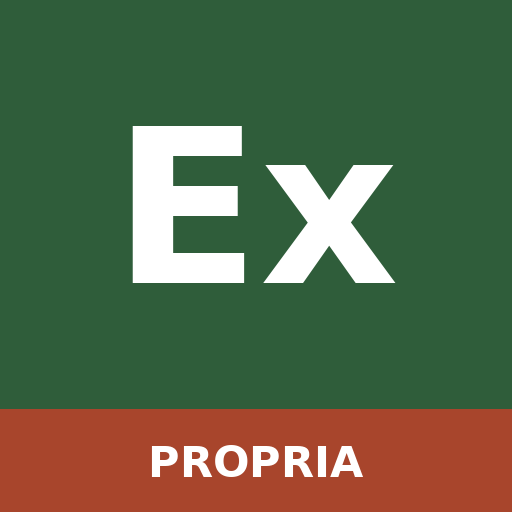
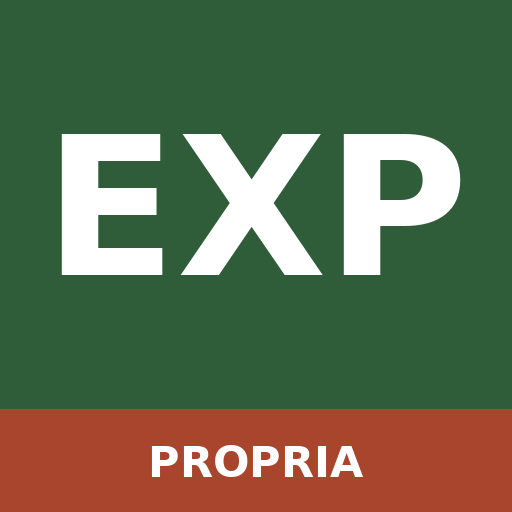
ExPropria 0.13.11: ícone EXP; cálculo do V_Un em quadro no Word; consociação eucaliptal + culturas; colunas ajustadas na janela de cálculo
Claude-Session: https://claude.ai/code/session_01WmKbAz9Cc2mBjezjkKT2Gw

Changed region(s): [[0.0938, 0.2188, 0.9062, 0.5625]]

diff --git a/expropria/index.html b/expropria/index.html
@@ -1,5 +1,11 @@
 <!doctype html>
 <!--
+ExPropria v0.13.11 — resumo
+- Ícone com as letras EXP.
+- 🧮 Calcular: na tabela de culturas (e no plano de cortes do pinhal), a coluna da designação tem a largura da mais longa + 1 carácter; as restantes colunas foram encurtadas.
+- 🧮 Novo método «Consociação»: eucaliptal + rotação de culturas entre as árvores (soma dos dois valores; a quota de cada cultura reflete a parte cultivável).
+- No Word, o cálculo do V_Un sai em quadro (sem limites de células, só a linha inferior do cabeçalho), com os parâmetros antes e os resultados depois – eucaliptal, pinhal, rotação de culturas e ocupação temporária.
+
 ExPropria v0.13.10 — resumo
 - Verificação: contas do próprio Word (área × V_Un = valor; «Total» = soma das parcelas; montante final = total) e áreas comparadas com a área a expropriar declarada no relatório quando o formulário não a tem.
 - 🧮 Rotação de culturas: coluna «Quota» (fração do ano / da área de cada cultura, RF = quota × RB × (1 − DE)), como na folha de cálculo do relatório da parcela 722; valores por defeito da versão final.
@@ -587,7 +593,7 @@ table.tb td input,table.tb td textarea{padding:5px 6px;min-height:0}
 .zerobox{margin-top:8px;padding:10px 12px;border:2px solid #c62828;border-radius:10px;background:#fdecea;color:#b71c1c;font-weight:700}
 .calc.zero{border-color:#c62828;color:#b71c1c;background:#fdecea}.imgf img{max-width:100%;max-height:220px;border:1px solid var(--line,#dfe5ec);border-radius:8px;display:block;margin:4px 0}.imgbtns{display:flex;gap:8px;flex-wrap:wrap;margin:6px 0}.fluxo .seg{display:flex;gap:0;margin:6px 0 12px;border:1px solid var(--line,#d5ddcf);border-radius:12px;overflow:hidden}.fluxo .seg button{flex:1;min-height:48px;border:0;border-radius:0;background:#fff;color:#2f5d3a;font-weight:600}.fluxo .seg button.on{background:#2f5d3a;color:#fff}.fluxo .fx-ol{padding-left:20px;margin:6px 0}.fluxo .fx-ol li{margin:0 0 14px}
 .tlr:last-child{border-bottom:0}.tlr .chk{margin:0}.tlr input:not([type=checkbox]){margin:0;padding:6px 8px}.tlr input:disabled{opacity:.35}
-.tlr select{grid-column:1/-1;margin:0 0 4px 26px;padding:5px 8px;font-size:13px}.tlr .del{padding:2px 7px}.tlr.vun{grid-template-columns:1fr 110px}.cmrow{grid-column:1/-1;display:flex;align-items:center;gap:8px;flex-wrap:wrap;margin:2px 0 4px}.cmnote{font-size:12px;color:#2f5d3a}.cmnote.dif{color:#a15c00}.arvx{grid-column:1/-1;display:grid;grid-template-columns:1fr 1fr;gap:8px}.cmgrid{display:grid;grid-template-columns:1fr 1fr;gap:8px 10px}@media(max-width:520px){.cmgrid{grid-template-columns:1fr}}.cmf{display:flex;flex-direction:column;gap:3px;font-size:13px}.cmf input,.cmf select{width:100%}.cmt input{width:100%;min-width:60px}.cmres{margin-top:12px;padding:10px;border-radius:10px;background:#f3f6f4;font-size:13px;line-height:1.45}.cmv{margin-top:6px;font-size:15px}
+.tlr select{grid-column:1/-1;margin:0 0 4px 26px;padding:5px 8px;font-size:13px}.tlr .del{padding:2px 7px}.tlr.vun{grid-template-columns:1fr 110px}.cmrow{grid-column:1/-1;display:flex;align-items:center;gap:8px;flex-wrap:wrap;margin:2px 0 4px}.cmnote{font-size:12px;color:#2f5d3a}.cmnote.dif{color:#a15c00}.arvx{grid-column:1/-1;display:grid;grid-template-columns:1fr 1fr;gap:8px}.cmgrid{display:grid;grid-template-columns:1fr 1fr;gap:8px 10px}@media(max-width:520px){.cmgrid{grid-template-columns:1fr}}.cmf{display:flex;flex-direction:column;gap:3px;font-size:13px}.cmf input,.cmf select{width:100%}.cmtw{overflow-x:auto;max-width:100%}.cmt{width:auto;border-collapse:collapse}.cmt th{font-size:11.5px;padding:2px 3px;white-space:nowrap}.cmt td{padding:2px 3px}.cmt input{min-width:0;box-sizing:content-box;padding:5px 3px;font-size:14px}.cmt .del{padding:2px 6px;min-height:0}.cmres{margin-top:12px;padding:10px;border-radius:10px;background:#f3f6f4;font-size:13px;line-height:1.45}.cmv{margin-top:6px;font-size:15px}
 .tlr .q{font-size:12px;color:var(--muted,#667)}
 .mgrid{display:grid;grid-template-columns:repeat(auto-fill,minmax(210px,1fr));column-gap:12px}
 .blk{margin:18px 0 6px;padding:8px 12px;border-radius:9px;background:var(--pri);color:#fff;font-weight:700;letter-spacing:.2px}
@@ -732,7 +738,7 @@ https://github.com/nodeca/pako/blob/main/LICENSE
 
 <script>
 'use strict';
-const VERSION='0.13.10';const VERSION_DATA='2026-11-18';/* data da release: atualizar sempre com VERSION */
+const VERSION='0.13.11';const VERSION_DATA='2026-11-18';/* data da release: atualizar sempre com VERSION */
 function growFit(t){if(!t||!t.classList?.contains('grow')||!t.offsetParent)return;t.style.height='auto';t.style.height=(t.scrollHeight+2)+'px'}
 function growAll(root){(root||document).querySelectorAll('textarea.grow').forEach(growFit)}
 document.addEventListener('input',e=>growFit(e.target),true);
@@ -824,7 +830,7 @@ function fill73(doc,v,c){const body=h=>{const ps=[];let e=h.nextSibling;while(e)
  put('Situações com reflexo na parte sobrante',T('depTipos').filter(r=>num(r.qtd)>0||String(r.obs||'').trim()).map(r=>`- ${r.tipo.trim()}${r.obs?` – ${r.obs}`:''}`));
   put('Arrendamentos e outros direitos',T('arrTipos').filter(r=>num(r.qtd)>0||String(r.obs||'').trim()).map(r=>`- ${r.tipo.trim()}${r.obs?` – ${r.obs}`:''}`));
   put('Atividades económicas exercidas',T('intTipos').filter(r=>num(r.qtd)>0||String(r.obs||'').trim()).map(r=>`- ${r.tipo.trim()}${r.obs?` – ${r.obs}`:''}`));
- put('Interrupção da atividade',[...T('intTipos').filter(r=>num(r.qtd)>0).map(r=>`- ${r.tipo.trim()}${r.obs?` – ${r.obs}`:''}${ab('intTipos',r)}`),...ocTempRows(v).flatMap(([r])=>[`- Ocupação temporária – ${String(r.tipo).trim()}${String(r.obs||'').trim()?` (${String(r.obs).trim()})`:''}: ${fmt(num(r.area))} m² × ${fmt(num(r.vun),4)} €/m²/ano × ${fmt(num(r.anos),num(r.anos)%1?1:0)} ${num(r.anos)===1?'ano':'anos'} = ${fmt(num(r.area)*num(r.anos)*num(r.vun))} €${String(r.fund||'').trim()?` (${String(r.fund).trim().replace(/[.\s]+$/,'')})`:''}.`,...(calcUsado('ocTemp',r)?r.calcTxt.map(x=>'   '+x):[])])])}
+ put('Interrupção da atividade',[...T('intTipos').filter(r=>num(r.qtd)>0).map(r=>`- ${r.tipo.trim()}${r.obs?` – ${r.obs}`:''}${ab('intTipos',r)}`),...ocTempRows(v).flatMap(([r])=>[`- Ocupação temporária – ${String(r.tipo).trim()}${String(r.obs||'').trim()?` (${String(r.obs).trim()})`:''}: ${fmt(num(r.area))} m² × ${fmt(num(r.vun),4)} €/m²/ano × ${fmt(num(r.anos),num(r.anos)%1?1:0)} ${num(r.anos)===1?'ano':'anos'} = ${fmt(num(r.area)*num(r.anos)*num(r.vun))} €${String(r.fund||'').trim()?` (${String(r.fund).trim().replace(/[.\s]+$/,'')})`:''}.`,...(calcUsado('ocTemp',r)?calcTok(r):[])])]);calcExpand(doc)}
 /* epígrafe do acórdão: Processo · Finalidade · Parcela · Expropriante · Expropriado(s) */
 function acEpigrafe(doc,P,pars){const h=findPara(doc,t=>/^processo:/.test(norm(t)));if(!h)return;
  setParaText(h,`Processo: ${P.proc||'[…]'}`);const ps=nextParas(doc,h,8);const put=(re,val)=>{const q=ps.find(q=>re.test(norm(txt(q))));if(q)setParaText(q,val)};
@@ -1308,7 +1314,7 @@ async function buildWordARB(ask=true,pp=null,opt={}){try{await avaFontesCalibri(
     else{if(pP)setParaText(pP,'- Nada a considerar');if(t)remove(t)}}}
   {/* 8.3: fundamentação do V_Un de cada finalidade do solo para outros fins */const FL=(Array.isArray(v.sofTipos)?v.sofTipos:[]).filter(r=>elegivel(v,'sofTipos',r,'area')&&String(r.fund||'').trim());
    if(FL.length){const h=findHeading(doc,'Solo para outros fins - parametriza')||findHeading(doc,'Solo para outros fins');if(h){let q=null,e=h.nextSibling;while(e){if(e.nodeType===1){if(e.localName==='p'){const st=e.getElementsByTagNameNS(WNS,'pStyle')[0];if(st&&/Cabealho/.test(st.getAttributeNS(WNS,'val'))&&txt(e).trim())break;q=e;if(txt(e).trim())break}}e=e.nextSibling}
-    if(q){const L=FL.flatMap(r=>[`- ${String(r.tipo).trim()}: V_Un ${fmt(num(r.vun))} €/m² – ${String(r.fund).trim().replace(/[.\s]+$/,'')}.`,...(calcUsado('sofTipos',r)?r.calcTxt.map(x=>'   '+x):[])]);if(/^-?\s*nada a considerar/i.test(txt(q).trim())||!txt(q).trim())setParaText(q,L.join('\n'));else{const n=q.cloneNode(true);q.parentNode.insertBefore(n,q.nextSibling);setParaText(n,L.join('\n'))}}}}}
+    if(q){const L=FL.flatMap(r=>[`- ${String(r.tipo).trim()}: V_Un ${fmt(num(r.vun))} €/m² – ${String(r.fund).trim().replace(/[.\s]+$/,'')}.`,...(calcUsado('sofTipos',r)?calcTok(r):[])]);if(/^-?\s*nada a considerar/i.test(txt(q).trim())||!txt(q).trim())setParaText(q,L.join('\n'));else{const n=q.cloneNode(true);q.parentNode.insertBefore(n,q.nextSibling);setParaText(n,L.join('\n'))}calcExpand(doc)}}}}
   {if(listaUtil(v)&&c.trTOF>0&&c.sofTotal>0){const h=findHeading(doc,'Solo para outros fins - parametriza')||findHeading(doc,'Solo para outros fins');if(h){const q=nextParas(doc,h,2).find(x=>!txt(x).trim());const tx=`Método comparativo (art. 27.º, n.º 1): média aritmética atualizada dos preços unitários das transações de prédios com características idênticas (${c.trTOFw}): ${fmt(c.trTOF)} €/m².`;if(q)setParaText(q,tx)}}}
   /* 5.3.1: lista de transações recebida mas não utilizável – motivo (texto supletivo) antes do art. 27.º, n.º 3 */
   {const mot=String(v.listaMot||'').trim();if(v.listaTr==='Recebida – não utilizável'&&mot){const p3=findPara(doc,t=>/^não sendo possível aplicar aquele critério/i.test(t.trim()));if(p3){mot.split(/\n\s*\n/).map(x=>x.trim()).filter(Boolean).forEach(x=>{const n=p3.cloneNode(true);p3.parentNode.insertBefore(n,p3);setParaText(n,x)})}}}
@@ -1992,24 +1998,26 @@ const elegivel=(v,tb,r,q)=>r&&r.a23!==A23C&&r&&String(r.tipo||'').trim()&&r.on!=
 const calcLines=v=>{const o=Object.fromEntries(GRUPOS.map(([k,,,tb,q])=>[k,(Array.isArray(v[tb])?v[tb]:[]).filter(r=>elegivel(v,tb,r,q)).map(r=>({desig:String(r.tipo).trim(),qtd:num(r[q]),vun:num(r.vun)}))]));o.l8=[...o.l8,...ocTempRows(v).map(([r])=>({desig:ocTempDesig(r),qtd:num(r.area)*num(r.anos),vun:num(r.vun)}))];return o};
 /* ---- 0.13.8 · Calculadoras do V_Un (eucaliptal, pinhal, rotação de culturas) e ocupação temporária ----
    Os valores por defeito são os dos relatórios de arbitragem que serviram de exemplo; o perito aceita o valor calculado ou adota outro (o V_Un continua editável). */
-const CALC_MET={euc:'Eucaliptal – valor atual dos cortes (desconto contínuo)',pin:'Pinhal – plano de gestão (desconto discreto)',rot:'Rotação de culturas – rendimento fundiário'};
+const CALC_MET={euc:'Eucaliptal – valor atual dos cortes (desconto contínuo)',pin:'Pinhal – plano de gestão (desconto discreto)',rot:'Rotação de culturas – rendimento fundiário',cons:'Consociação – eucaliptal + culturas entre as árvores'};
 const CALC_DEF={
  euc:()=>({r:'4',P:'25',n:'10',V:'130; 150; 130',C:'1500',idade:'3',d:'',tn:'3000'}),
  pin:()=>({q:'4',pr:'40',man:'10',C:'1500',idade:'15',tn:'0',plano:[{l:'Desbaste',t:'15',v:'7,20'},{l:'Desbaste',t:'25',v:'36,31'},{l:'Desbaste',t:'35',v:'120,66'},{l:'Corte final',t:'40',v:'268,00'}]}),
+ cons:()=>({euc:CALC_DEF.euc(),rot:CALC_DEF.rot()}),
  rot:()=>({anos:'2',taxa:'4',cult:[{n:'Couve-lombarda',ano:'1',q:'0,5',prod:'30000',pr:'0,15',de:'85'},{n:'Feijão-verde',ano:'1',q:'0,5',prod:'30000',pr:'0,40',de:'90'},{n:'Alho francês',ano:'2',q:'0,5',prod:'6000',pr:'0,85',de:'85'},{n:'Tomate',ano:'2',q:'0,5',prod:'60000',pr:'0,10',de:'90'}]})};
 const calcMetOf=(tb,r)=>tb==='ocTemp'?'rot':/eucal/i.test(r.tipo||'')?'euc':/pinh|pinheir/i.test(r.tipo||'')?'pin':'rot';
 const pctTxt=x=>{const n=num(x);return `${fmt(n,n%1?2:0)} %`};
 function calcRun(m,p,temp){const L=[];let vun=0,ok=true;
  if(m==='euc'){const r=num(p.r)/100,P=num(p.P),n=num(p.n),V=String(p.V||'').split(/[;\/]+/).map(num).filter(x=>x>0),C=num(p.C),a=num(p.idade),tn=num(p.tn);
   const k=V.length,T=n*k,d=String(p.d??'').trim()===''?Math.max(0,T-a):num(p.d);ok=r>0&&P>0&&n>0&&k>0;if(!ok)return {ok,L:['Indique a taxa, o preço, o intervalo entre cortes e os volumes.']};
-  const cortes=V.map((v,i)=>({t:n*(i+1),v})).filter(x=>x.t>=a);const val1=cortes.reduce((s,x)=>s+P*x.v*Math.exp(-r*(x.t-a)),0);
+  const cortes=V.map((v,i)=>({i:i+1,t:n*(i+1),v})).filter(x=>x.t>=a);const val1=cortes.reduce((s,x)=>s+P*x.v*Math.exp(-r*(x.t-a)),0);
   const Vm=V.reduce((s,x)=>s+x,0)/k;const val2=(P*Vm/(Math.exp(r*n)-1)-C*Math.exp(r*T)/(Math.exp(r*T)-1))*Math.exp(-r*d);const tot=val1+val2+tn;vun=tot/10000;
   L.push(`Povoamento com cerca de ${fmt(a,a%1?1:0)} anos; P = ${fmt(P)} €/m³ (madeira em pé); cortes de ${V.map(x=>fmt(x,x%1?2:0)).join(' / ')} m³/ha, de ${fmt(n,0)} em ${fmt(n,0)} anos (ciclo de ${fmt(T,0)} anos); C = ${fmt(C)} €/ha (instalação); r = ${pctTxt(p.r)}.`,
    `VAL do ciclo em curso = Σ P × Vᵢ / e^(r × (tᵢ − ${fmt(a,a%1?1:0)})) = ${cortes.map(x=>`${fmt(P)} × ${fmt(x.v,x.v%1?2:0)} / e^(${fmt(r,2)} × ${fmt(x.t-a,(x.t-a)%1?1:0)})`).join(' + ')||'0'} = ${fmt(val1)} €/ha.`,
    `VAL dos ciclos seguintes = [P × V̄ / (e^(r × ${fmt(n,0)}) − 1) − C × e^(r × ${fmt(T,0)}) / (e^(r × ${fmt(T,0)}) − 1)] × e^(−r × ${fmt(d,d%1?1:0)}), com V̄ = ${fmt(Vm)} m³/ha, = ${fmt(val2)} €/ha.`,
    ...(tn?[`Terra nua: ${fmt(tn)} €/ha.`]:[]),
    `Total: ${fmt(val1)} + ${fmt(val2)}${tn?` + ${fmt(tn)}`:''} = ${fmt(tot)} €/ha, ou seja, ${fmt(vun,4)} €/m².`);
-  return {ok,L,vun:Math.round(vun*100)/100,fund:`eucaliptal com cerca de ${fmt(a,a%1?1:0)} anos – valor atual dos cortes futuros (r = ${pctTxt(p.r)}, ${fmt(P)} €/m³)${tn?` acrescido da terra nua (${fmt(tn)} €/ha)`:''}: ${fmt(tot)} €/ha`}}
+  const Wb=[{p:L[0]},{t:{h:['Corte','Ano do ciclo','Anos a descontar','Volume (m³/ha)','P × V (€/ha)','Valor atual (€/ha)'],pc:[.15,.13,.16,.16,.18,.22],jc:['left','center','center','right','right','right'],r:[...cortes.map(x=>[`${x.i}.º corte`,fmt(x.t,0),fmt(x.t-a,(x.t-a)%1?1:0),fmt(x.v),fmt(P*x.v),fmt(P*x.v*Math.exp(-r*(x.t-a)))]),{c:['VAL do ciclo em curso','','','','',fmt(val1)],b:1}]}},{p:L[2]},...(tn?[{p:L[3]}]:[]),{p:L[L.length-1]}];
+  return {ok,L,W:Wb,vun:Math.round(vun*100)/100,fund:`eucaliptal com cerca de ${fmt(a,a%1?1:0)} anos – valor atual dos cortes futuros (r = ${pctTxt(p.r)}, ${fmt(P)} €/m³)${tn?` acrescido da terra nua (${fmt(tn)} €/ha)`:''}: ${fmt(tot)} €/ha`}}
  if(m==='pin'){const q=1+num(p.q)/100,pr=num(p.pr),man=num(p.man)/100,C=num(p.C),a=num(p.idade),tn=num(p.tn);
   const PL=(Array.isArray(p.plano)?p.plano:[]).map(x=>({l:String(x.l||'').trim()||'Corte',t:num(x.t),v:num(x.v)})).filter(x=>x.t>0).sort((x,y)=>x.t-y.t);ok=q>1&&pr>0&&PL.length>0;if(!ok)return {ok,L:['Indique a taxa, o preço e o plano de cortes.']};
   const T=PL[PL.length-1].t;PL.forEach(x=>{x.rf=x.v*pr*(1-man);x.at=x.rf/Math.pow(q,x.t)});const VAL=PL.reduce((s,x)=>s+x.at,0)-C;
@@ -2020,26 +2028,36 @@ function calcRun(m,p,temp){const L=[];let vun=0,ok=true;
    `Valor aos ${fmt(a,0)} anos = Σ RF(t ≥ ${fmt(a,0)}) / q^(t − ${fmt(a,0)}) + VAL × q^${fmt(T,0)} / (q^${fmt(T,0)} − 1) / q^${fmt(T-a,0)} = ${fmt(vf)} + ${fmt(vs)} = ${fmt(vf+vs)} €/ha.`,
    ...(tn?[`Terra nua: ${fmt(tn)} €/ha.`]:[]),
    `Total: ${fmt(tot)} €/ha, ou seja, ${fmt(vun,4)} €/m².`);
-  return {ok,L,vun:Math.round(vun*100)/100,fund:`pinhal com cerca de ${fmt(a,0)} anos – plano de gestão (q = ${fmt(q,2)}, ${fmt(pr)} €/m³)${tn?` acrescido da terra nua (${fmt(tn)} €/ha)`:''}: ${fmt(tot)} €/ha`}}
+  const Wb=[{p:L[0]},{t:{h:['Operação','Idade (anos)','Volume (m³/ha)','RB (€/ha)','RF (€/ha)','RF atualizado (€/ha)'],pc:[.21,.12,.15,.16,.16,.20],jc:['left','center','right','right','right','right'],r:[...PL.map(x=>[x.l,fmt(x.t,0),fmt(x.v),fmt(x.v*pr),fmt(x.rf),fmt(x.at)]),{c:['Investimento inicial','0','','','',`− ${fmt(C)}`]},{c:['VAL da rotação','','','','',fmt(VAL)],b:1}]}},{p:L[L.length-(tn?3:2)]},...(tn?[{p:L[L.length-2]}]:[]),{p:L[L.length-1]}];
+  return {ok,L,W:Wb,vun:Math.round(vun*100)/100,fund:`pinhal com cerca de ${fmt(a,0)} anos – plano de gestão (q = ${fmt(q,2)}, ${fmt(pr)} €/m³)${tn?` acrescido da terra nua (${fmt(tn)} €/ha)`:''}: ${fmt(tot)} €/ha`}}
  if(m==='rot'){const an=Math.max(1,num(p.anos)),tx=num(p.taxa)/100;const CU=(Array.isArray(p.cult)?p.cult:[]).map(x=>({n:String(x.n||'').trim()||'Cultura',ano:String(x.ano||'').trim(),q:String(x.q??'').trim()===''?1:num(x.q),prod:num(x.prod),pr:num(x.pr),de:num(x.de)})).filter(x=>x.prod>0);
   ok=CU.length>0&&(temp||tx>0);if(!ok)return {ok,L:[temp?'Indique as culturas.':'Indique as culturas e a taxa de capitalização.']};
   CU.forEach(x=>{x.rb=x.prod*x.pr;x.dep=x.rb*x.de/100;x.rf=x.q*(x.rb-x.dep)});const RFt=CU.reduce((s,x)=>s+x.rf,0),RFa=RFt/an,RFm=RFa/10000;
   L.push(`Rotação de ${fmt(an,0)} ${an===1?'ano':'anos'}:`,...CU.map(x=>`- ${x.n}${x.ano?` (${x.ano}.º ano)`:''}: RB = ${fmt(x.prod,0)} kg/ha × ${fmt(x.pr)} €/kg = ${fmt(x.rb)} €; DE (${pctTxt(x.de)}) = ${fmt(x.dep)} €; RF = ${x.q!==1?`${fmt(x.q,2)} × `:''}(${fmt(x.rb)} − ${fmt(x.dep)}) = ${fmt(x.rf)} €/ha.`),
    `Quota = fração do ano (ou da área) ocupada por cada cultura. Rendimento fundiário médio anual = ${fmt(RFt)} / ${fmt(an,0)} = ${fmt(RFa)} €/ha/ano, ou seja, ${fmt(RFm,4)} €/m²/ano.`);
-  if(temp){vun=Math.round(RFm*10000)/10000;return {ok,L,vun,fund:`perda do rendimento fundiário da rotação de culturas (${fmt(RFa)} €/ha/ano)`}}
-  vun=RFm/tx;L.push(`Valor do solo = RF / taxa de capitalização = ${fmt(RFm,4)} / ${fmt(tx,4)} = ${fmt(vun,4)} €/m².`);
-  return {ok,L,vun:Math.round(vun*100)/100,fund:`rendimento fundiário da rotação de culturas (${fmt(RFa)} €/ha/ano), capitalizado à taxa de ${pctTxt(p.taxa)}`}}
+  const Wb=[{p:`Rotação de ${fmt(an,0)} ${an===1?'ano':'anos'} (RF = quota × (RB − DE); quota = fração do ano ou da área ocupada por cada cultura):`},{t:{h:['Cultura','Ano','Quota','Produção (kg/ha)','Preço (€/kg)','RB (€/ha)','DE','RF (€/ha)'],pc:[.20,.07,.08,.14,.11,.13,.09,.18],jc:['left','center','center','right','right','right','center','right'],r:[...CU.map(x=>[x.n,x.ano||'—',fmt(x.q,2),fmt(x.prod,0),fmt(x.pr),fmt(x.rb),pctTxt(x.de),fmt(x.rf)]),{c:['Total da rotação','','','','','','',fmt(RFt)],b:1}]}},{p:`Rendimento fundiário médio anual = ${fmt(RFt)} / ${fmt(an,0)} = ${fmt(RFa)} €/ha/ano, ou seja, ${fmt(RFm,4)} €/m²/ano.`}];
+  if(temp){vun=Math.round(RFm*10000)/10000;return {ok,L,W:Wb,vun,fund:`perda do rendimento fundiário da rotação de culturas (${fmt(RFa)} €/ha/ano)`}}
+  vun=RFm/tx;L.push(`Valor do solo = RF / taxa de capitalização = ${fmt(RFm,4)} / ${fmt(tx,4)} = ${fmt(vun,4)} €/m².`);Wb.push({p:L[L.length-1]});
+  return {ok,L,W:Wb,vun:Math.round(vun*100)/100,fund:`rendimento fundiário da rotação de culturas (${fmt(RFa)} €/ha/ano), capitalizado à taxa de ${pctTxt(p.taxa)}`}}
+ if(m==='cons'){const A=calcRun('euc',p.euc||{},false),B=calcRun('rot',p.rot||{},false);ok=A.ok&&B.ok;const L2=['A) Eucaliptal',...A.L,'B) Culturas entre as árvores',...B.L];if(!ok)return {ok,L:L2};
+  vun=Math.round((A.vun+B.vun)*100)/100;L2.push(`Valor da consociação = ${fmt(A.vun)} + ${fmt(B.vun)} = ${fmt(vun)} €/m².`);
+  return {ok,L:L2,W:[{p:'A) Eucaliptal'},...(A.W||[]),{p:'B) Culturas entre as árvores'},...(B.W||[]),{p:L2[L2.length-1]}],vun,fund:`consociação de eucaliptal (${fmt(A.vun)} €/m²) com rotação de culturas entre as árvores (${fmt(B.vun)} €/m²)`}}
  return {ok:false,L:[]}}
 /* linhas da ocupação temporária (entram na linha 8 do quadro: área × anos × RF €/m²/ano) */
 const ocTempRows=v=>(Array.isArray(v.ocTemp)?v.ocTemp:[]).map((r,i)=>[r,i]).filter(([r])=>r&&String(r.tipo||'').trim()&&num(r.area)>0&&num(r.anos)>0);
 const ocTempDesig=r=>`Ocupação temporária – ${String(r.tipo).trim()} (${fmt(num(r.area))} m² × ${fmt(num(r.anos),num(r.anos)%1?1:0)} ${num(r.anos)===1?'ano':'anos'})`;
-function calcModalHTML(st){const {m,p,temp,tipo}=st;const R=calcRun(m,p,temp);const inp=(k,l,h)=>`<label class="cmf"><span>${l}</span><input data-cp="${k}" inputmode="decimal" value="${esc(p[k]??'')}">${h?`<small class="muted">${h}</small>`:''}</label>`;
+/* largura da coluna de texto = designação mais longa + 1 carácter de folga */
+const cmW=(L,k)=>Math.max(6,...(L||[]).map(x=>String(x[k]||'').length))+1;
+function calcFields(m,p,temp,pre=''){const inp=(k,l,h)=>`<label class="cmf"><span>${l}</span><input data-cp="${pre}${k}" inputmode="decimal" value="${esc(p[k]??'')}">${h?`<small class="muted">${h}</small>`:''}</label>`;
  let f='';
- if(m==='euc')f=inp('r','Taxa de atualização r (%)')+inp('P','Preço da madeira em pé (€/m³)')+inp('n','Intervalo entre cortes (anos)')+`<label class="cmf" style="grid-column:1/-1"><span>Volumes de cada corte do ciclo (m³/ha), separados por «;»</span><input data-cp="V" value="${esc(p.V||'')}"></label>`+inp('C','Custo de instalação C (€/ha)')+inp('idade','Idade atual do povoamento (anos)')+inp('d','Anos até ao início dos ciclos seguintes','Em branco = fim do ciclo em curso (ciclo − idade)')+inp('tn','Terra nua a somar (€/ha)','0 = não somar');
+ if(m==='euc')f=inp('r','Taxa de atualização r (%)')+inp('P','Preço da madeira em pé (€/m³)')+inp('n','Intervalo entre cortes (anos)')+`<label class="cmf" style="grid-column:1/-1"><span>Volumes de cada corte do ciclo (m³/ha), separados por «;»</span><input data-cp="${pre}V" value="${esc(p.V||'')}"></label>`+inp('C','Custo de instalação C (€/ha)')+inp('idade','Idade atual do povoamento (anos)')+inp('d','Anos até ao início dos ciclos seguintes','Em branco = fim do ciclo em curso (ciclo − idade)')+inp('tn','Terra nua a somar (€/ha)','0 = não somar');
  if(m==='pin')f=inp('q','Taxa de atualização (%)')+inp('pr','Preço da madeira (€/m³)')+inp('man','Despesas de manutenção (% do RB)')+inp('C','Investimento inicial (€/ha)')+inp('idade','Idade atual do povoamento (anos)')+inp('tn','Terra nua a somar (€/ha)','0 = não somar')+
-  `<div style="grid-column:1/-1"><div class="muted" style="margin:6px 0 4px">Plano de cortes</div><table class="tb cmt"><tr><th>Operação</th><th>Idade (anos)</th><th>Volume (m³/ha)</th><th></th></tr>${(p.plano||[]).map((x,i)=>`<tr><td><input data-cr="plano" data-i="${i}" data-c="l" value="${esc(x.l||'')}"></td><td><input data-cr="plano" data-i="${i}" data-c="t" inputmode="decimal" value="${esc(x.t||'')}"></td><td><input data-cr="plano" data-i="${i}" data-c="v" inputmode="decimal" value="${esc(x.v||'')}"></td><td><button class="del" data-crdel="plano" data-i="${i}">✕</button></td></tr>`).join('')}</table><button class="secondary mini" data-cradd="plano">+ Corte</button></div>`;
+  `<div style="grid-column:1/-1"><div class="muted" style="margin:6px 0 4px">Plano de cortes</div><div class="cmtw"><table class="tb cmt"><tr><th>Operação</th><th>Idade</th><th>m³/ha</th><th></th></tr>${(p.plano||[]).map((x,i)=>`<tr><td><input data-cr="${pre}plano" data-i="${i}" data-c="l" style="width:${cmW(p.plano,'l')}ch" value="${esc(x.l||'')}"></td><td><input data-cr="${pre}plano" data-i="${i}" data-c="t" inputmode="decimal" style="width:4ch" value="${esc(x.t||'')}"></td><td><input data-cr="${pre}plano" data-i="${i}" data-c="v" inputmode="decimal" style="width:7ch" value="${esc(x.v||'')}"></td><td><button class="del" data-crdel="${pre}plano" data-i="${i}">✕</button></td></tr>`).join('')}</table></div><button class="secondary mini" data-cradd="${pre}plano">+ Corte</button></div>`;
  if(m==='rot')f=inp('anos','Duração da rotação (anos)')+(temp?'':inp('taxa','Taxa de capitalização (%)','Por defeito 4 % (a taxa dos exemplos florestais) – fundamente a taxa adotada'))+
-  `<div style="grid-column:1/-1"><div class="muted" style="margin:6px 0 4px">Culturas da rotação</div><table class="tb cmt"><tr><th>Cultura</th><th>Ano</th><th>Quota</th><th>Produção (kg/ha)</th><th>Preço (€/kg)</th><th>DE (%)</th><th></th></tr>${(p.cult||[]).map((x,i)=>`<tr>${[['n',''],['ano','d'],['q','d'],['prod','d'],['pr','d'],['de','d']].map(([c,d])=>`<td><input data-cr="cult" data-i="${i}" data-c="${c}" ${d?'inputmode="decimal"':''} value="${esc(x[c]??'')}"></td>`).join('')}<td><button class="del" data-crdel="cult" data-i="${i}">✕</button></td></tr>`).join('')}</table><button class="secondary mini" data-cradd="cult">+ Cultura</button></div>`;
+  `<div style="grid-column:1/-1"><div class="muted" style="margin:6px 0 4px">Culturas da rotação</div><div class="cmtw"><table class="tb cmt"><tr><th>Cultura</th><th>Ano</th><th>Quota</th><th>kg/ha</th><th>€/kg</th><th>DE %</th><th></th></tr>${(p.cult||[]).map((x,i)=>`<tr>${[['n','',cmW(p.cult,'n')],['ano','d',2],['q','d',4],['prod','d',6],['pr','d',4],['de','d',3]].map(([c,d,w])=>`<td><input data-cr="${pre}cult" data-i="${i}" data-c="${c}" ${d?'inputmode="decimal"':''} style="width:${w}ch" value="${esc(x[c]??'')}"></td>`).join('')}<td><button class="del" data-crdel="${pre}cult" data-i="${i}">✕</button></td></tr>`).join('')}</table></div><button class="secondary mini" data-cradd="${pre}cult">+ Cultura</button></div>`;
+ return f}
+function calcModalHTML(st){const {m,p,temp,tipo}=st;const R=calcRun(m,p,temp);
+ const f=m==='cons'?`<div class="algrp" style="grid-column:1/-1">A) Eucaliptal</div>${calcFields('euc',p.euc,false,'euc.')}<div class="algrp" style="grid-column:1/-1">B) Culturas entre as árvores</div><div class="muted" style="grid-column:1/-1">A quota de cada cultura deve refletir a parte do ano e da área que é efetivamente cultivável entre as árvores (sombra, concorrência, idade do povoamento). Fundamente-a.</div>${calcFields('rot',p.rot,false,'rot.')}`:calcFields(m,p,temp);
  const un=temp?'€/m²/ano':'€/m²';
  return `<h3>🧮 ${esc(tipo)}</h3>${temp?'':`<label class="cmf" style="display:block;margin-bottom:8px"><span>Método</span><select id="cmMet">${Object.entries(CALC_MET).map(([k,l])=>`<option value="${k}" ${k===m?'selected':''}>${esc(l)}</option>`).join('')}</select></label>`}
   <div class="muted" style="margin-bottom:8px">Valores por defeito: os dos relatórios de exemplo. Corrija o que não se aplicar a esta parcela.</div>
@@ -2050,13 +2068,14 @@ function calcOpen(v,tb,i,rerender){const r=(v[tb]||[])[i];if(!r)return;const tem
  const sv=r.calc&&r.calc.m?structuredClone(r.calc):null;const st={temp,tipo:temp?ocTempDesig(r):`${r.tipo} · ${fmt(num(r.area))} m²`,m:sv?sv.m:calcMetOf(tb,r),p:null,keep:{}};
  st.keep[st.m]=sv?sv.p:CALC_DEF[st.m]();st.p=st.keep[st.m];
  const draw=()=>{openModal(calcModalHTML(st));const box=$('#modalBox');const res=()=>{const R=calcRun(st.m,st.p,temp);$('#cmRes').innerHTML=R.L.map(x=>`<div>${esc(x)}</div>`).join('')+(R.ok?`<div class="cmv">Valor calculado: <b>${fmt(R.vun,temp?4:2)} ${temp?'€/m²/ano':'€/m²'}</b></div>`:'');$('#cmUse').disabled=!R.ok};
-  box.querySelectorAll('[data-cp]').forEach(el=>el.oninput=()=>{st.p[el.dataset.cp]=el.value;res()});
-  box.querySelectorAll('[data-cr]').forEach(el=>el.oninput=()=>{st.p[el.dataset.cr][+el.dataset.i][el.dataset.c]=el.value;res()});
-  box.querySelectorAll('[data-crdel]').forEach(el=>el.onclick=()=>{st.p[el.dataset.crdel].splice(+el.dataset.i,1);draw()});
-  box.querySelectorAll('[data-cradd]').forEach(el=>el.onclick=()=>{(st.p[el.dataset.cradd]=st.p[el.dataset.cradd]||[]).push({});draw()});
+  const gp=path=>path.split('.').reduce((o,k)=>o&&o[k],st.p);const sp=(path,val)=>{const ks=path.split('.'),last=ks.pop();ks.reduce((o,k)=>o[k],st.p)[last]=val};
+  box.querySelectorAll('[data-cp]').forEach(el=>el.oninput=()=>{sp(el.dataset.cp,el.value);res()});
+  box.querySelectorAll('[data-cr]').forEach(el=>el.oninput=()=>{gp(el.dataset.cr)[+el.dataset.i][el.dataset.c]=el.value;if(el.dataset.c==='n'||el.dataset.c==='l'){const w=cmW(gp(el.dataset.cr),el.dataset.c);box.querySelectorAll(`[data-cr="${el.dataset.cr}"][data-c="${el.dataset.c}"]`).forEach(x=>x.style.width=w+'ch')}res()});
+  box.querySelectorAll('[data-crdel]').forEach(el=>el.onclick=()=>{gp(el.dataset.crdel).splice(+el.dataset.i,1);draw()});
+  box.querySelectorAll('[data-cradd]').forEach(el=>el.onclick=()=>{let a=gp(el.dataset.cradd);if(!a){a=[];sp(el.dataset.cradd,a)}a.push({});draw()});
   const ms=$('#cmMet');if(ms)ms.onchange=()=>{st.m=ms.value;st.p=st.keep[st.m]||(st.keep[st.m]=CALC_DEF[st.m]());draw()};
   $('#cmDef').onclick=()=>{st.p=st.keep[st.m]=CALC_DEF[st.m]();draw()};$('#cmCancel').onclick=closeModal;
-  $('#cmUse').onclick=()=>{const R=calcRun(st.m,st.p,temp);if(!R.ok)return;r.calc={m:st.m,p:structuredClone(st.p),vun:R.vun};r.vun=String(R.vun).replace('.',',');r.fund=R.fund;r.calcTxt=R.L;closeModal();saveSoon();rerender()}};
+  $('#cmUse').onclick=()=>{const R=calcRun(st.m,st.p,temp);if(!R.ok)return;r.calc={m:st.m,p:structuredClone(st.p),vun:R.vun};r.vun=String(R.vun).replace('.',',');r.fund=R.fund;r.calcTxt=R.L;r.calcW=R.W;closeModal();saveSoon();rerender()}};
  draw()}
 /* nota na lista do V_Un: valor adotado ≠ calculado */
 function calcNota(tb,r){if(!r.calc||!r.calc.m)return '';const vc=num(r.calc.vun),va=num(r.vun),d=tb==='ocTemp'?4:2;
@@ -2065,18 +2084,23 @@ function calcNota(tb,r){if(!r.calc||!r.calc.m)return '';const vc=num(r.calc.vun)
 const calcUsado=(tb,r)=>!!(r&&r.calc&&r.calc.m&&Array.isArray(r.calcTxt)&&Math.abs(num(r.calc.vun)-num(r.vun))<1e-9);
 const LISTA_AT_TXT='As listas de transações e de avaliações fiscais habitualmente disponibilizadas pela Autoridade Tributária indicam apenas o ano, o número da declaração, o tipo, os códigos do distrito, do concelho e da freguesia, o artigo e a secção, a área do prédio e o valor, sendo omissas quanto às possibilidades de uso consagradas em instrumento de planeamento territorial e às características dos prédios.\n\nA aplicação do método comparativo implica a homogeneização dos prédios transacionados com o prédio de que a parcela é destacada, para a qual seria necessário conhecer as respetivas características, tais como: localização; área; condições de acesso; tipo de construções permitidas; benfeitorias existentes; topografia; classificação no Plano Diretor Municipal; proximidade de núcleos habitacionais.\n\nCom os elementos que a Autoridade Tributária habitualmente fornece não é, pois, possível utilizar o critério principal previsto nos n.ºs 1 e 2 do art. 27.º do CE, pelo que se recorre ao critério supletivo do n.º 3 do mesmo artigo.';
 /* arvoredo em quadro: sem limites de células, só a linha inferior da linha de títulos */
-function arvTabela(doc,anchor,rows){const W=(n,at={},ch=[])=>{const e=doc.createElementNS(WNS,'w:'+n);Object.entries(at).forEach(([k,x])=>e.setAttributeNS(WNS,'w:'+k,String(x)));ch.forEach(c=>c&&e.appendChild(c));return e};
+function tabSimples(doc,anchor,head,rows,pc,jcs){const W=(n,at={},ch=[])=>{const e=doc.createElementNS(WNS,'w:'+n);Object.entries(at).forEach(([k,x])=>e.setAttributeNS(WNS,'w:'+k,String(x)));ch.forEach(c=>c&&e.appendChild(c));return e};
  const sp=W_(doc,'sectPr').pop();const pg=sp&&kids(sp,'pgSz')[0],mg=sp&&kids(sp,'pgMar')[0];const TW=pg&&mg?num(pg.getAttributeNS(WNS,'w'))-num(mg.getAttributeNS(WNS,'left'))-num(mg.getAttributeNS(WNS,'right')):9638;
- const pc=[0.30,0.10,0.14,0.14,0.32];const ws=pc.map(x=>Math.floor(TW*x));ws[4]=TW-ws.slice(0,4).reduce((a,b)=>a+b,0);
+ const ws=pc.map(x=>Math.floor(TW*x));ws[ws.length-1]=TW-ws.slice(0,-1).reduce((a,b)=>a+b,0);
  const rPr0=firstRPr(anchor);const pPr0=kids(anchor,'pPr')[0];
  const para=(t,jc,b)=>{const pp=pPr0?pPr0.cloneNode(true):W('pPr');['numPr','ind','spacing','jc','keepNext','pageBreakBefore'].forEach(k=>kids(pp,k).forEach(x=>pp.removeChild(x)));
   const ORD=['pStyle','keepNext','keepLines','pageBreakBefore','framePr','widowControl','numPr','suppressLineNumbers','pBdr','shd','tabs','suppressAutoHyphens','kinsoku','wordWrap','overflowPunct','topLinePunct','autoSpaceDE','autoSpaceDN','bidi','adjustRightInd','snapToGrid','spacing','ind','contextualSpacing','mirrorIndents','suppressOverlap','jc','textDirection','textAlignment','textboxTightWrap','outlineLvl','divId','cnfStyle','rPr','sectPr','pPrChange'];const ins=e=>{const k=ORD.indexOf(e.localName);pp.insertBefore(e,[...pp.childNodes].find(n=>n.nodeType===1&&ORD.indexOf(n.localName)>k)||null)};ins(W('spacing',{before:30,after:30}));ins(W('jc',{val:jc}));
   const r=mkRun(doc,rPr0,t);if(b){let rp=kids(r,'rPr')[0];if(!rp){rp=W('rPr');r.insertBefore(rp,r.firstChild)}kids(rp,'b').forEach(x=>rp.removeChild(x));rp.insertBefore(W('b'),rp.firstChild)}return W('p',{},[pp,r])};
  const cell=(t,w,jc,hdr)=>W('tc',{},[W('tcPr',{},[W('tcW',{w,type:'dxa'}),hdr?W('tcBorders',{},[W('bottom',{val:'single',sz:6,space:0,color:'auto'})]):null,W('vAlign',{val:'center'})]),...String(t||'').split('\n').map(x=>x.trim()).filter(Boolean).map(x=>para(x,jc,hdr))].concat(String(t||'').trim()?[]:[para('',jc,hdr)]));
- const row=(cs,hdr)=>W('tr',{},[W('trPr',{},[W('cantSplit'),hdr?W('tblHeader'):null]),...cs.map((t,k)=>cell(t,ws[k],k===0||k===4?'left':'center',hdr))]);
+ const row=(cs,hdr)=>{const b=!Array.isArray(cs)&&cs.b;const c=Array.isArray(cs)?cs:cs.c;return W('tr',{},[W('trPr',{},[W('cantSplit'),hdr?W('tblHeader'):null]),...c.map((t,k)=>cell(t,ws[k],jcs[k]||'left',hdr||b))])};
  const nil=['top','left','bottom','right','insideH','insideV'].map(k=>W(k,{val:'nil'}));
  const tbl=W('tbl',{},[W('tblPr',{},[W('tblW',{w:TW,type:'dxa'}),W('tblBorders',{},nil),W('tblLayout',{type:'fixed'}),W('tblCellMar',{},[W('left',{w:60,type:'dxa'}),W('right',{w:60,type:'dxa'})]),W('tblLook',{val:'0000'})]),W('tblGrid',{},ws.map(w=>W('gridCol',{w})))]);
- tbl.appendChild(row(['Espécie','N.º','DAP','Idade','Observações'],true));rows.forEach(x=>tbl.appendChild(row(x)));return tbl}
+ tbl.appendChild(row(head,true));rows.forEach(x=>tbl.appendChild(row(x)));return tbl}
+const arvTabela=(doc,anchor,rows)=>tabSimples(doc,anchor,['Espécie','N.º','DAP','Idade','Observações'],rows,[0.30,0.10,0.14,0.14,0.32],['left','center','center','center','left']);
+/* cálculo do V_Un no Word: marcador ⟦CALC:n⟧ → parágrafos + quadro */
+const CALCREG=[];const calcTok=r=>Array.isArray(r.calcW)&&r.calcW.length?[`⟦CALC:${CALCREG.push(r.calcW)-1}⟧`]:r.calcTxt.map(x=>'   '+x);
+function calcExpand(doc){for(const p of W_(doc,'p')){const m=txt(p).trim().match(/^⟦CALC:(\d+)⟧$/);if(!m||!p.parentNode)continue;const B=CALCREG[+m[1]]||[];
+  for(const b of B){if(b.t){p.parentNode.insertBefore(tabSimples(doc,p,b.t.h,b.t.r,b.t.pc,b.t.jc),p);const e=p.cloneNode(true);p.parentNode.insertBefore(e,p);setParaText(e,'')}else{const e=p.cloneNode(true);p.parentNode.insertBefore(e,p);setParaText(e,b.p)}}p.parentNode.removeChild(p)}}
 const arvCm=x=>{const t=String(x||'').trim();return /^\d+([.,]\d+)?$/.test(t)?`${t} cm`:t};
 const arvAnos=x=>{const t=String(x||'').trim();return /^\d+([.,]\d+)?$/.test(t)?`${t} anos`:t};
 
@@ -3189,7 +3213,7 @@ $('#btnSettings').onclick=()=>{view='settings';render()};$('#btnModelos').onclic
  render()})();
 </script>
 <script>/* app instalável (GitHub Pages), como o FullTopics e o Regi: guarda-se no aparelho e abre sem rede; versão nova → aviso «Atualizar». No ficheiro local não faz nada. */
-async function checkAppUpdate(){try{if(!navigator.onLine||!window.caches)return;const r=await fetch('index.html?chk='+Date.now(),{cache:'no-store'});if(!r.ok)return;const txt=await r.text(),m=/const VERSION='([^']+)'/.exec(txt),v=m&&m[1];if(v&&v!==VERSION){const c=await caches.open('expropria-app');await c.put(new URL('index.html',location.href).href,new Response(txt,{headers:{'Content-Type':'text/html; charset=utf-8'}}));showUpdateToast(v)}}catch(e){}}
+async function checkAppUpdate(){try{if(!navigator.onLine||!window.caches)return;const r=await fetch('index.html?chk='+Date.now(),{cache:'no-store'});if(!r.ok)return;const txt=await r.text(),m=/const VERSION='([^']+)'/.exec(txt),v=m&&m[1];if(v&&v!==VERSION){const c=await caches.open('expropria-app');await c.put(new URL('index.html',location.href).href,new Response(txt,{headers:{'Content-Type':'text/html; charset=utf-8'}}));for(const f of ['manifest.webmanifest','icon-180.png','icon-192.png','icon-512.png']){try{const x=await fetch(f+'?chk='+Date.now(),{cache:'no-store'});if(x.ok)await c.put(new URL(f,location.href).href,x)}catch(e){}}showUpdateToast(v)}}catch(e){}}
 function showUpdateToast(v){if(document.getElementById('updToast'))return;const d=document.createElement('div');d.id='updToast';d.innerHTML=`<span>Nova versão${v?' '+esc(v):''} descarregada.</span><button type="button">Atualizar</button>`;d.querySelector('button').onclick=async()=>{try{clearTimeout(saveT);await saveCur()}catch(e){}location.reload()};document.body.appendChild(d)}
 if('serviceWorker' in navigator&&(location.protocol==='https:'||location.hostname==='localhost')){navigator.serviceWorker.register('sw.js').catch(()=>{});setTimeout(checkAppUpdate,3000)}
 </script>
